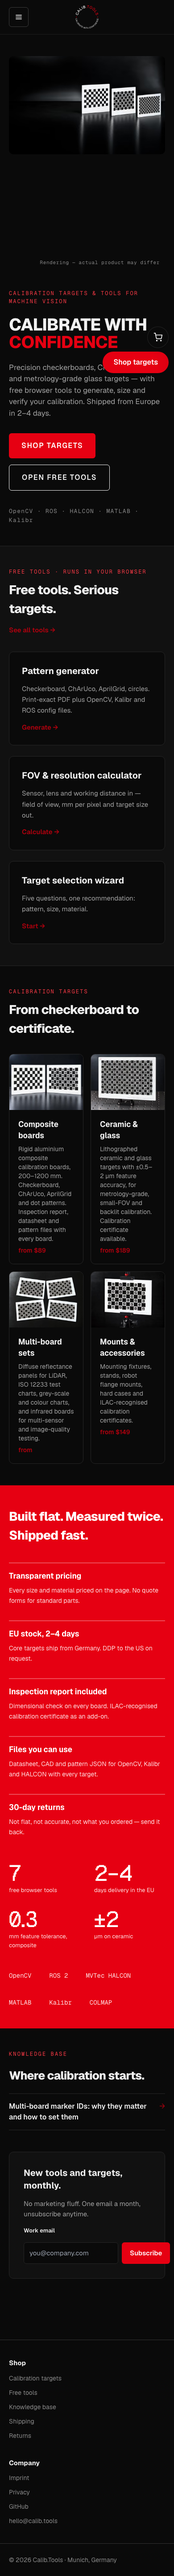
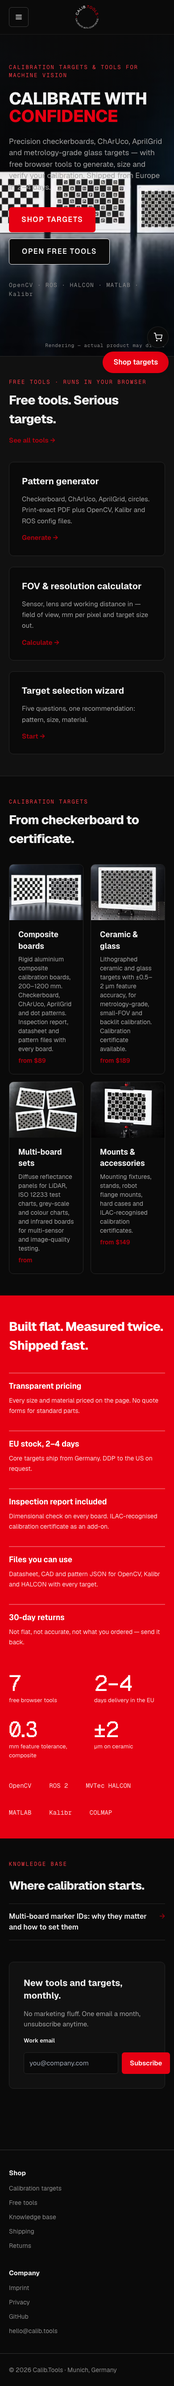
feat: full-bleed hero with responsive background images
Replace the two-column hero with a full-bleed section:
- Desktop (≥768px): min-h 640px (max 760px at ≥1440), hero-three-boards
  as absolutely positioned cover image (object-position: right center),
  left-to-right gradient overlay (rgba(10,10,10,0.85) → transparent at
  55%), text column max-w 560px vertically centred in 1200px container
- Mobile (<768px): hero-three-boards-mobile as cover image (object-
  position: bottom), min-h 85svh, top-to-bottom gradient (0.9 → 0 at
  45%), text overlays the upper portion
- Both use astro:assets Picture for AVIF/WebP/JPEG responsive srcset
- Caption "Rendering — actual product may differ" bottom-right
- Tests: hero img ≥95% viewport width at 1440/390, h1 within left 50%

diff --git a/tests/e2e/redesign.spec.ts b/tests/e2e/redesign.spec.ts
@@ -58,6 +58,40 @@ test('Favicon and manifest files serve 200', async ({ page }) => {
   expect(res3.ok()).toBeTruthy();
 });
 
+test('Hero image spans full section width at 1440px', async ({ page }) => {
+  await page.setViewportSize({ width: 1440, height: 900 });
+  await page.goto('/');
+  await page.waitForLoadState('networkidle');
+  // Find the visible hero img (desktop one has md:block, mobile has md:hidden)
+  const heroImgs = page.locator('#top img');
+  const count = await heroImgs.count();
+  let foundWidth = 0;
+  for (let i = 0; i < count; i++) {
+    const box = await heroImgs.nth(i).boundingBox();
+    if (box && box.width > foundWidth) foundWidth = box.width;
+  }
+  expect(foundWidth).toBeGreaterThanOrEqual(1440 * 0.95);
+});
+
+test('Hero h1 is within left 50% at 1440px', async ({ page }) => {
+  await page.setViewportSize({ width: 1440, height: 900 });
+  await page.goto('/');
+  const h1 = page.locator('#top h1');
+  const box = await h1.boundingBox();
+  expect(box).not.toBeNull();
+  expect(box!.x + box!.width).toBeLessThan(1440 * 0.5);
+});
+
+test('Hero image spans full section width at 390px', async ({ page }) => {
+  await page.setViewportSize({ width: 390, height: 844 });
+  await page.goto('/');
+  await page.waitForLoadState('networkidle');
+  const heroImg = page.locator('#top img').first();
+  const box = await heroImg.boundingBox();
+  expect(box).not.toBeNull();
+  expect(box!.width).toBeGreaterThanOrEqual(390 * 0.95);
+});
+
 test('Home page screenshot 1440px', async ({ page }) => {
   await page.setViewportSize({ width: 1440, height: 900 });
   await page.goto('/');
